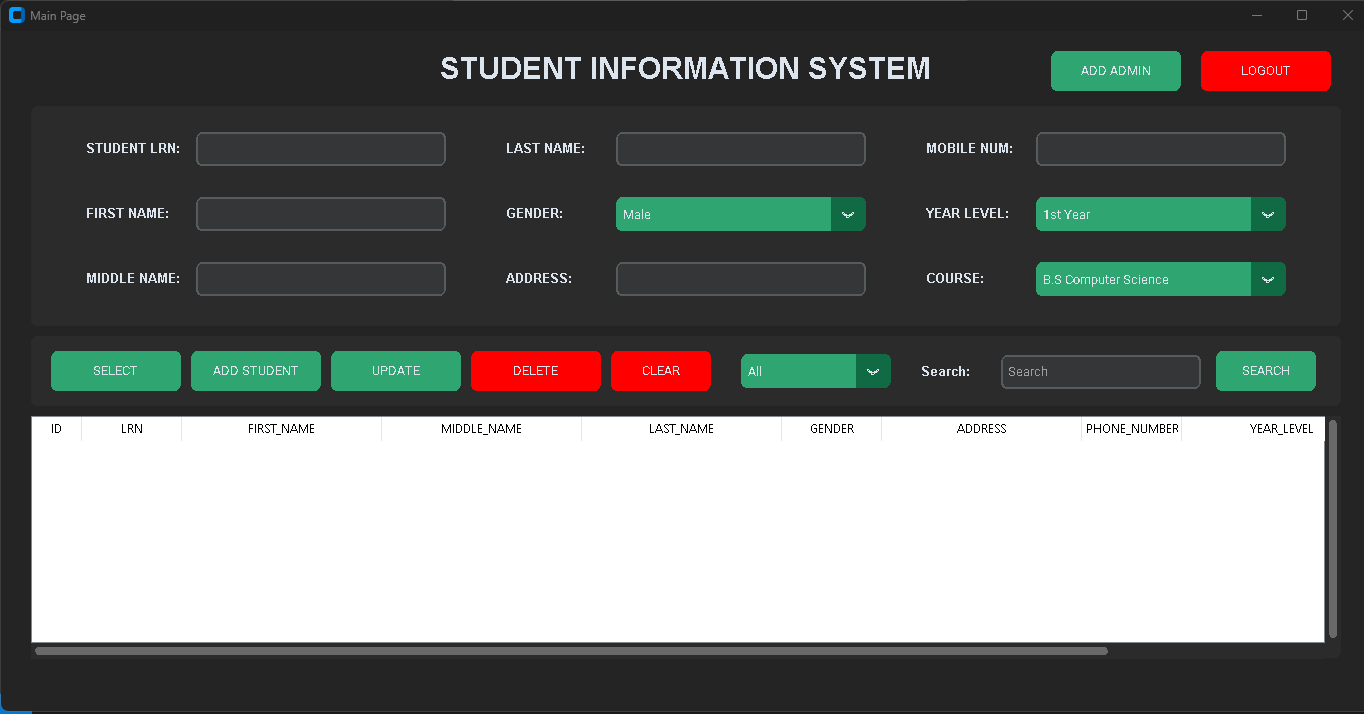
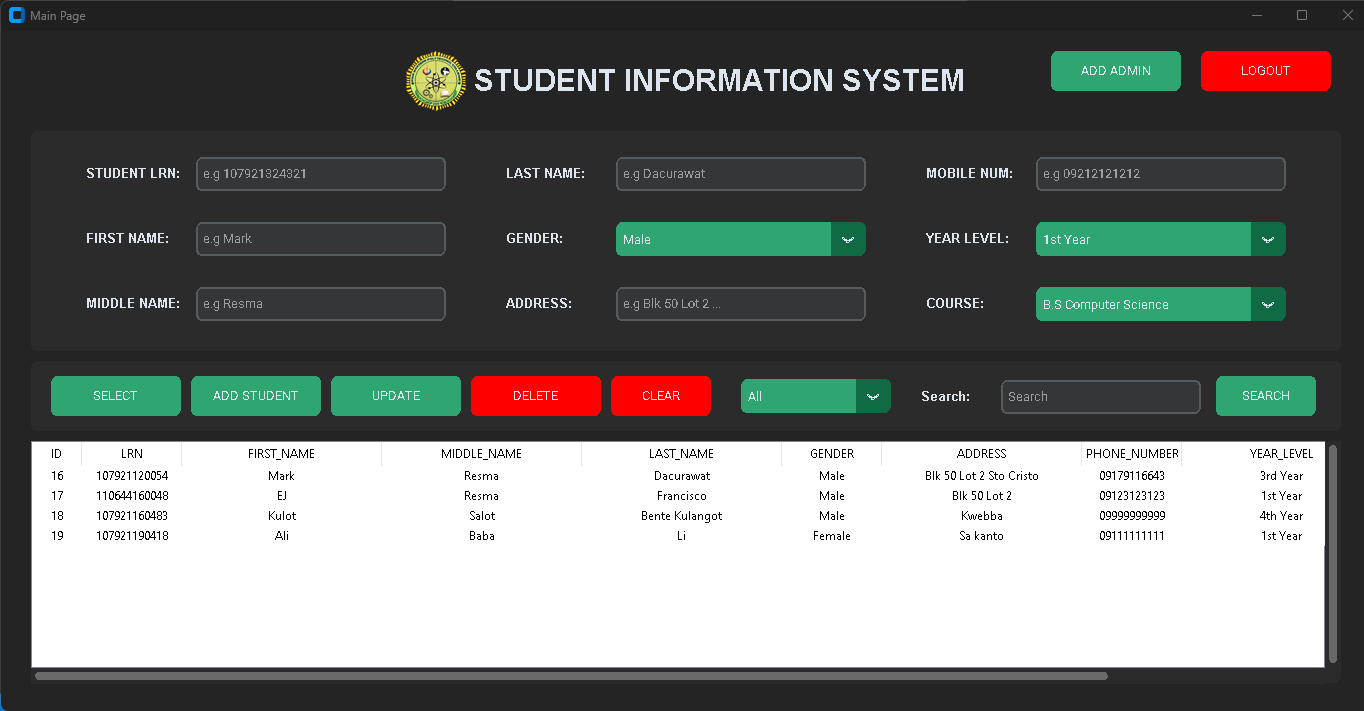
Updating screenshot Image

diff --git a/main.py b/main.py
@@ -143,6 +143,13 @@ Invalid password. Please ensure your password meets the following criteria:
                 if cursor:
                     cursor.close()
         
+        def backFunction():
+            signupWindow.withdraw()
+            mainWindow.deiconify()     
+            
+        backButton = customtkinter.CTkButton(signupWindow, text="<- Back",width=80,fg_color='red',hover_color="darkred",command=backFunction)
+        backButton.place(x=10,y=10)
+        
             
         fepc_logo = customtkinter.CTkImage(Image.open("C:\\Users\\Lovely\\Desktop\\projects\\python\\SIS\\images\\fepc-logo.png"), size=(300, 300))
         signupLogo = customtkinter.CTkLabel(signupWindow,image=fepc_logo,text="")
@@ -501,9 +508,9 @@ def mainpageOutput():
         studentCourseEntry.set(values[9])    # Course
 
     # ---------- END OF FUNCTIONS ------------
-    fepc_logo = customtkinter.CTkImage(Image.open("C:\\Users\\Lovely\\Desktop\\projects\\python\\SIS\\images\\fepc-logo.png"))
+    fepc_logo = customtkinter.CTkImage(Image.open("C:\\Users\\Lovely\\Desktop\\projects\\python\\SIS\\images\\fepc-logo.png"),size=(60,60))
 
-    pageTitle = customtkinter.CTkLabel(mainWindow, text="STUDENT INFORMATION SYSTEM", font=("Arial", 30, "bold"),image=fepc_logo,compound=tk.LEFT)
+    pageTitle = customtkinter.CTkLabel(mainWindow, text=" STUDENT INFORMATION SYSTEM", font=("Arial", 30, "bold"),image=fepc_logo,compound=tk.LEFT)
     pageTitle.pack(pady=20, anchor="center")
 
     def add_admin():
